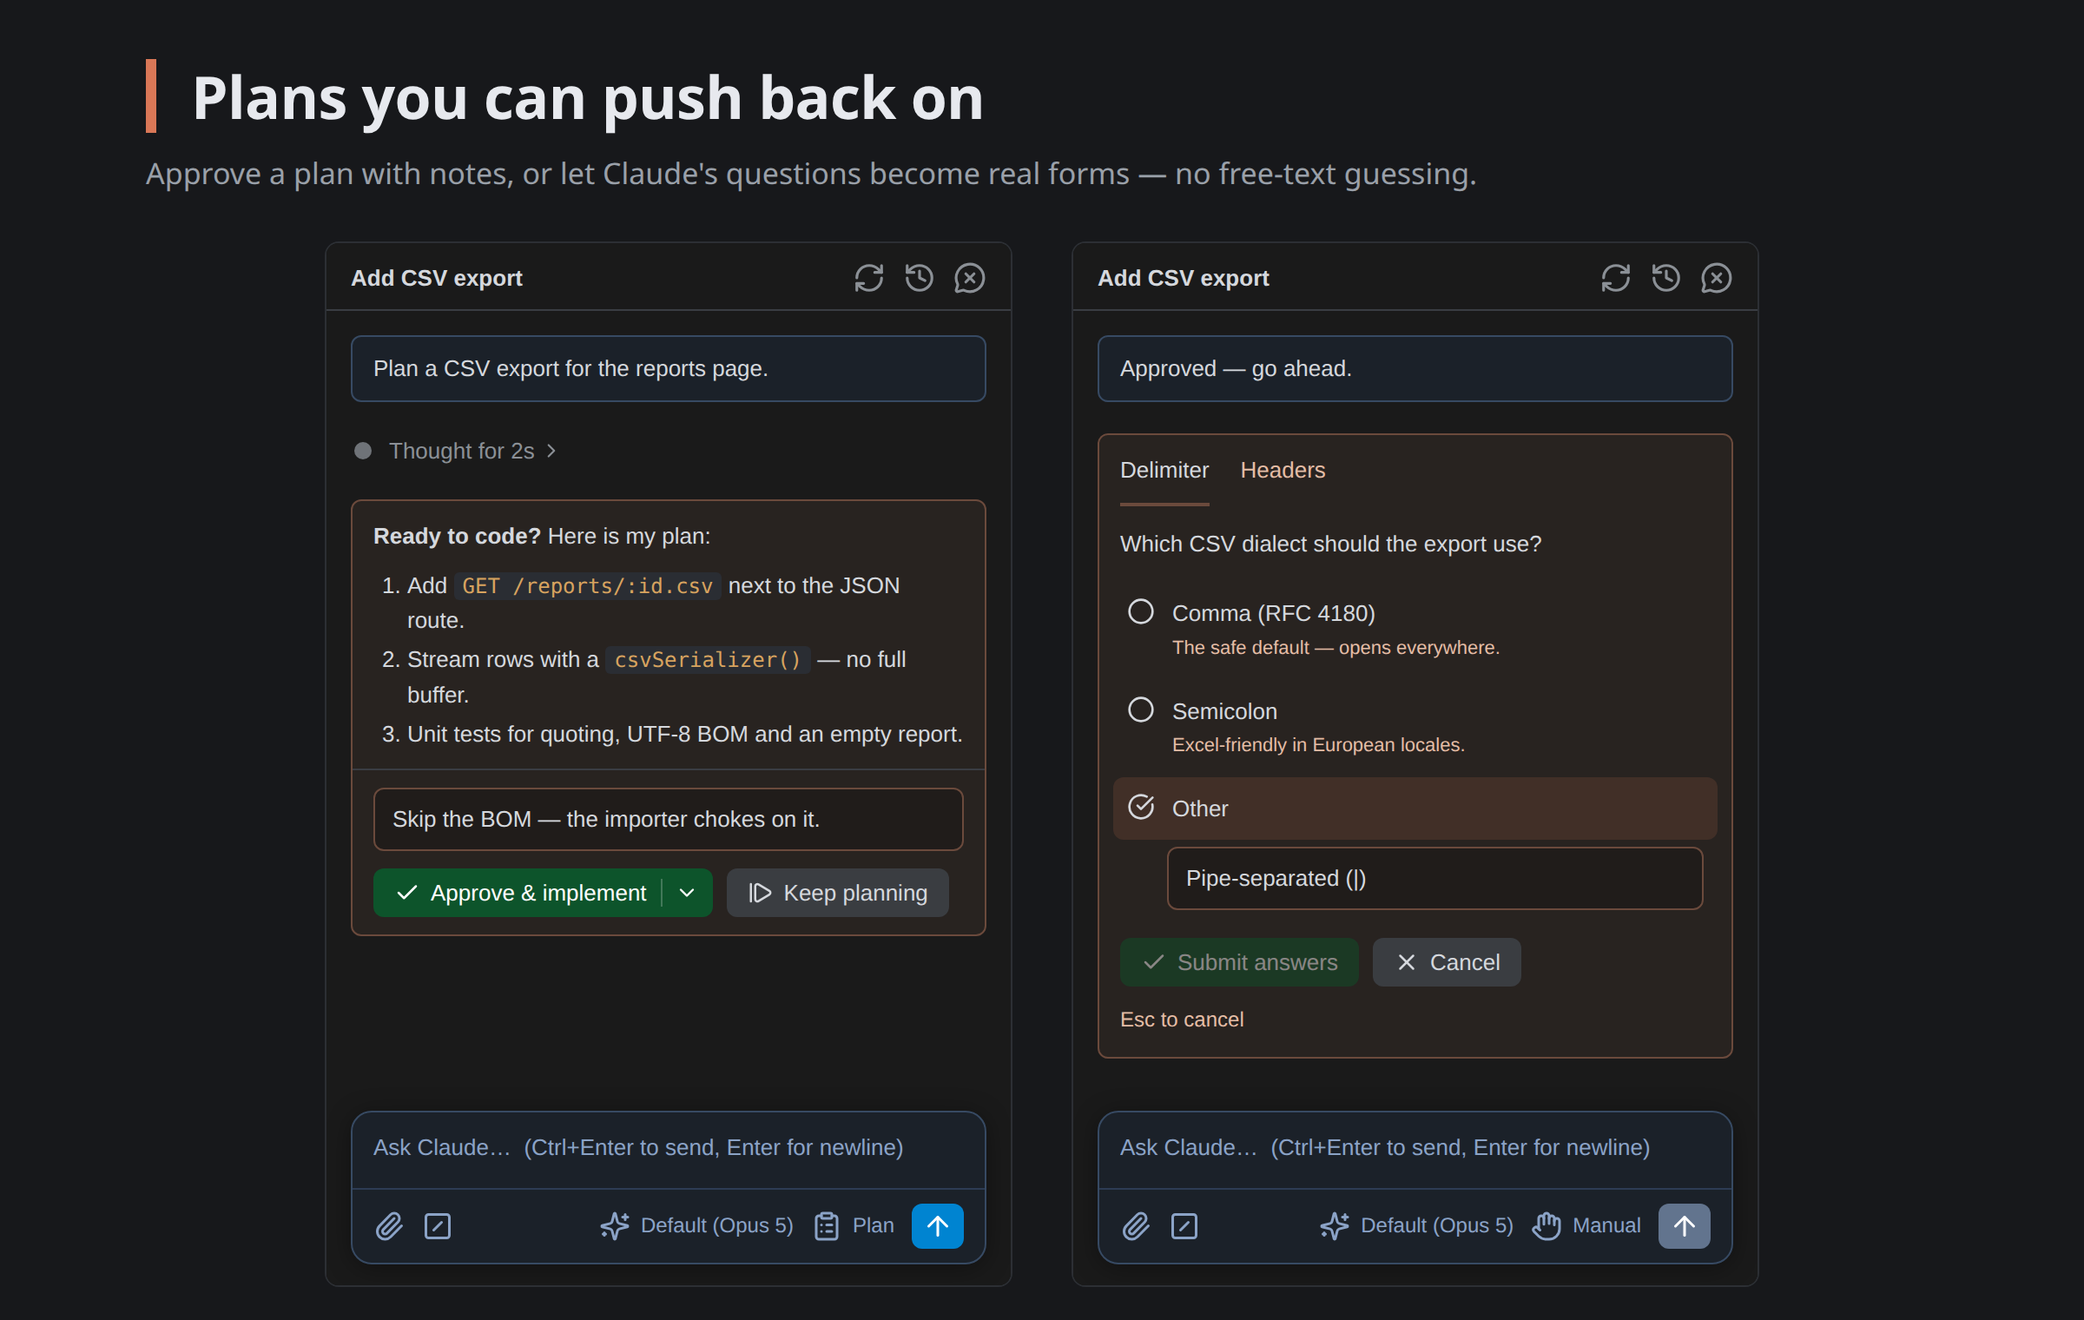
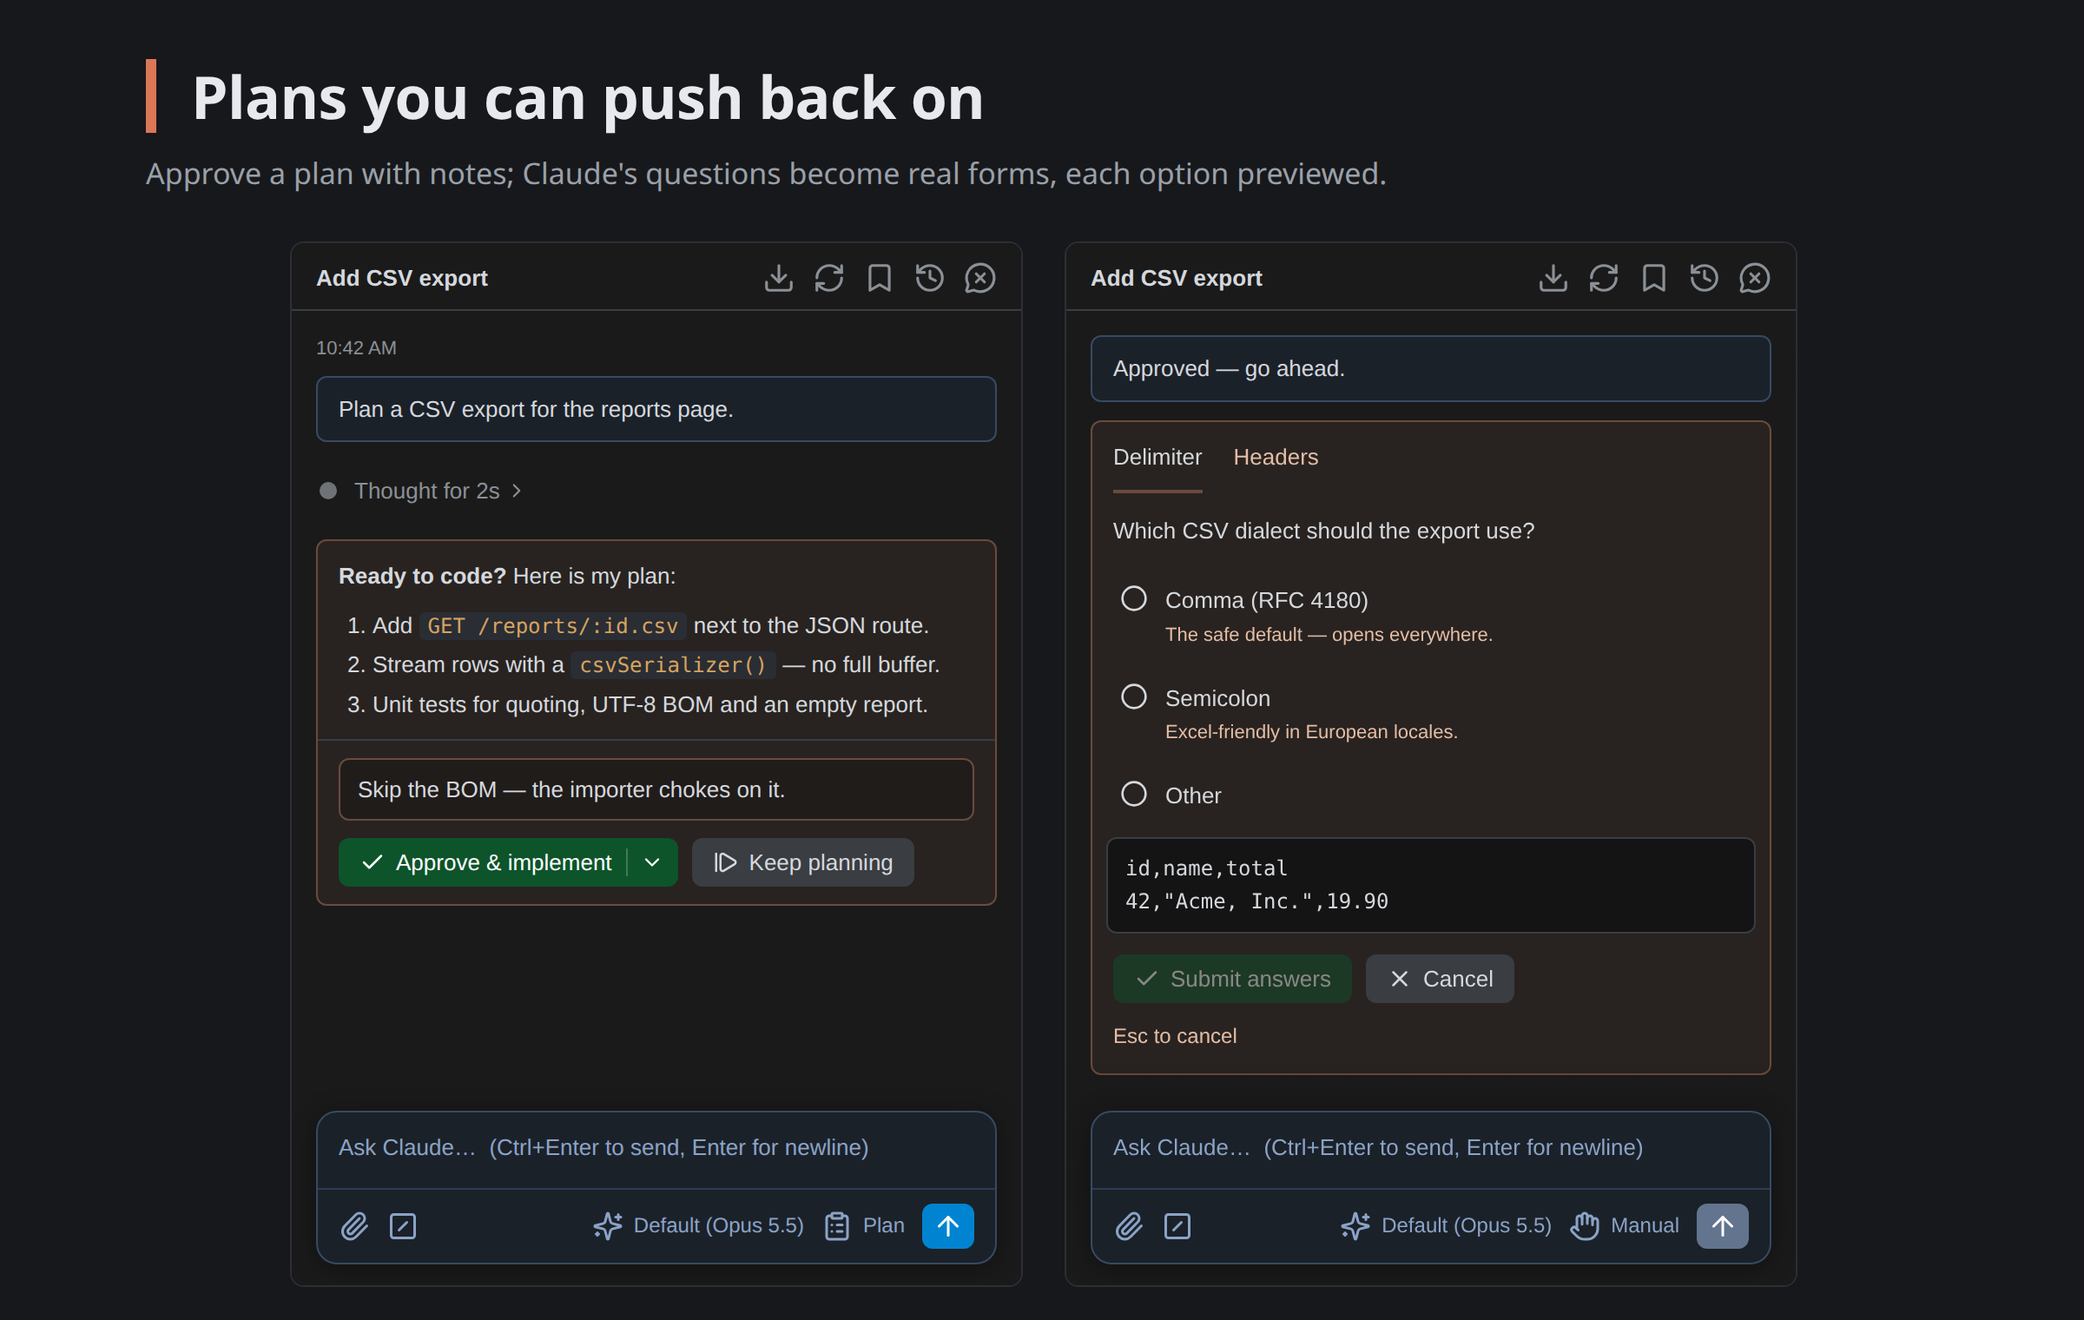
Marketplace screenshots regenerated, three added: the 2.1.293 model roster (Opus 5.5 / Fable 5.1 / Sonnet 5.5 / Haiku 5.5; the retired 1M switch dropped from 05's copy), 10:42 AM prompt stamps with 05's history list on the same clock, context figures for a 200K window, 420px panels (the 'Default (Op

diff --git a/tools/marketplace_shots.py b/tools/marketplace_shots.py
@@ -2,7 +2,8 @@
 """Compose the Marketplace screenshots (design/marketplace/*.png) from the REAL renderer.
 
 Each frame is 1200x760 CSS px at device scale 2 (2400x1520): a headline, a sub-line, and two
-panels side by side. A panel is the spliced chat.html (chat.html + webview/css/*.css +
+420px panels side by side (394 until 2026-10-28, when the 'Default (Opus 5.5)' chip wrapped
+beside the gauge). A panel is the spliced chat.html (chat.html + webview/css/*.css +
 window.LIMITS + webview/js/*.js, both in manifest order — exactly what WebviewAssets/loadUi
 build for the IDE) loaded
 in an iframe and driven by a scene script through the same builders and frames the live panel
@@ -12,7 +13,7 @@ the plugin does not produce.
 Headless Chrome, not JCEF: JCEF-OSR tiles multiple paints into one capture under an emulated
 viewport (gotchas § JCEF). Animations are frozen by injected CSS.
 
-Usage:  python3 tools/marketplace_shots.py [scene-number ...]     (default: all five)
+Usage:  python3 tools/marketplace_shots.py [scene-number ...]     (default: all of them)
 Needs:  google-chrome on PATH.  Writes design/marketplace/NN-*.png and the intermediate pages
         under $SCRATCH (default: /tmp/claude-brains-shots).
 """
@@ -26,7 +27,7 @@ SCRATCH = pathlib.Path(os.environ.get("SCRATCH", "/tmp/claude-brains-shots"))
 CHROME = os.environ.get("CHROME", "google-chrome")
 
 W, H = 1200, 760          # CSS px; captured at scale 2
-PANEL_W, PANEL_H = 394, 600
+PANEL_W, PANEL_H = 420, 600
 
 
 def kotlin_list(name: str) -> list:
@@ -80,12 +81,12 @@ def panel_html() -> str:
 
 COMMON = r"""
 window.onClaudeEvent(JSON.stringify({type:'__project', root:'/home/you/shop'}));
+// the roster as CLI 2.1.293 sends it (fixture 97 rows; Default resolved as fixture 67 measured it)
 window.onClaudeEvent(JSON.stringify({type:'__models', selected:'default', items:[
-  {value:'default', resolvedModel:'claude-opus-5[1m]', displayName:'Default (recommended)', description:'Opus 5 with 1M context · Best for everyday, complex tasks', supportsEffort:true, supportsFastMode:true},
-  {value:'opus[1m]', resolvedModel:'claude-opus-5[1m]', displayName:'Opus (1M context)', description:'Opus 5 with 1M context · Best for everyday, complex tasks', supportsEffort:true, supportsFastMode:true},
-  {value:'claude-fable-5[1m]', resolvedModel:'claude-fable-5', displayName:'Fable', description:'Fable 5 · Most capable for your hardest and longest-running tasks', supportsEffort:true},
-  {value:'sonnet', resolvedModel:'claude-sonnet-5', displayName:'Sonnet', description:'Sonnet 5 · Efficient for routine tasks', supportsEffort:true},
-  {value:'haiku', resolvedModel:'claude-haiku-4-5-20251001', displayName:'Haiku', description:'Haiku 4.5 · Fastest for quick answers'}]}));
+  {value:'default', resolvedModel:'claude-opus-5-5', displayName:'Default (recommended)', description:'Opus 5.5 · Best for everyday, complex tasks', supportsEffort:true, supportsFastMode:true},
+  {value:'fable', resolvedModel:'claude-fable-5-1', displayName:'Fable 5.1', description:'For your toughest challenges', supportsEffort:true},
+  {value:'sonnet', resolvedModel:'claude-sonnet-5-5', displayName:'Sonnet 5.5', description:'Most efficient for simpler tasks', supportsEffort:true},
+  {value:'haiku', resolvedModel:'claude-haiku-5-5', displayName:'Haiku 5.5', description:'Fastest for quick answers'}]}));
 window.onClaudeEvent(JSON.stringify({type:'__mode', mode:'default'}));
 window.onClaudeEvent(JSON.stringify({type:'__commands', items:[
   {name:'compact', description:'Free up context by summarizing the conversation so far', argumentHint:'<optional custom summarization instructions>'},
@@ -97,7 +98,9 @@ window.onClaudeEvent(JSON.stringify({type:'__commands', items:[
   {name:'deploy', description:'Build, tag and push the release image (project)', argumentHint:'<env>'},
   {name:'standup', description:'Summarise what changed since yesterday (user)'},
   {name:'mcp__github__pr', description:'Draft a pull-request description from the branch'}]}));
-function user(t){ addUserMessage(t, []); }
+// every prompt at 10:42 AM today, so the 1.30 timestamp line shows as it does live
+function at(h, m){ const d = new Date(); d.setHours(h, m, 0, 0); return +d; }
+function user(t, sel){ return addUserMessage(t, [], at(10, 42), sel || null); }
 function md(t){ const b = el('blk',''); b.innerHTML = renderMd(t); foldCode(b); return b; }
 function tool(name, desc, isPath){ const t = toolLine(name); const d = t.querySelector('.t-desc'); if (isPath) fillPath(d, desc); else d.textContent = desc; return t; }
 function done(ms, tok){ const d = el('done',''); d.innerHTML = doneHtml(ms, tok, 's1'); return d; }
@@ -117,7 +120,7 @@ done(41000, 1200);
 window.onClaudeEvent(JSON.stringify({type:'__files_changed', turn:1, files:[
   {path:'/home/you/shop/src/api/router.js', added:9, removed:1, isNew:false},
   {path:'/home/you/shop/src/api/limiter.js', added:24, removed:0, isNew:true}]}));
-idle(); setContext(162000);
+idle(); setContext(52000);
 """
 
 S1_RIGHT = COMMON + r"""
@@ -134,7 +137,7 @@ tool('Read', '/home/you/shop/src/api/export.js', true);
   toolsById['tu-agent'] = { el: tg2, name: 'Agent', io: null }; taskProg = {};
   taskLine({task_id:'tk1', tool_use_id:'tu-agent', description:'Scanning src/api', subagent_type:'Explore', usage:{total_tokens:8063, tool_uses:4}}, false); }
 { const tr = track(toolLine('Bash')); tr.classList.add('run'); tr.querySelector('.t-desc').textContent = 'npm test — re-running the suite'; }
-working('Simmering…', '12s', '412'); setContext(181000);
+working('Simmering…', '12s', '412'); setContext(64000);
 """
 
 S2_LEFT = COMMON + r"""
@@ -154,12 +157,10 @@ window.onClaudeEvent(JSON.stringify({type:'__title', text:'Add CSV export'}));
 user('Approved — go ahead.');
 renderPermission({ tool:'AskUserQuestion', id:'ask-1', input: JSON.stringify({ questions: [
   { header:'Delimiter', question:'Which CSV dialect should the export use?', options:[
-    {label:'Comma (RFC 4180)', description:'The safe default — opens everywhere.'},
-    {label:'Semicolon', description:'Excel-friendly in European locales.'}]},
+    {label:'Comma (RFC 4180)', description:'The safe default — opens everywhere.', preview:'id,name,total\n42,"Acme, Inc.",19.90'},
+    {label:'Semicolon', description:'Excel-friendly in European locales.', preview:'id;name;total\n42;Acme, Inc.;19,90'}]},
   { header:'Headers', question:'Include a header row?', options:[{label:'Yes'},{label:'No'}]}]}) });
 idle();
-{ const r = document.querySelector('.ask-opt-other input'); if (r) { r.checked = true; r.dispatchEvent(new Event('change', {bubbles:true})); }
-  const o = document.querySelector('.ask-other input'); if (o) o.value = 'Pipe-separated (|)'; }
 """
 
 S3_LEFT = COMMON + r"""
@@ -190,7 +191,7 @@ user('Approved — go ahead with the plan.');
 window.onClaudeEvent(JSON.stringify({type:'__files_changed', turn:1, files:[
   {path:'/home/you/shop/src/api/reports.js', added:1, removed:0, isNew:false},
   {path:'/home/you/shop/src/api/csv.js', added:38, removed:0, isNew:true}]}));
-working('Wiring…', '9s', '304'); setContext(210000);
+working('Wiring…', '9s', '304'); setContext(78000);
 """
 
 S4_LEFT = COMMON + r"""
@@ -225,18 +226,18 @@ done(41000, 1200);
 idle();
 const now = Date.now();
 window.onClaudeEvent(JSON.stringify({type:'sessions', current:'s-cur', items:[
-  {id:'s-cur', title:'Rate limiting for the API', time: now - 5*60000, size: 48000, tokens: 12400},
-  {id:'s-2', title:'Add CSV export', time: now - 3*3600000, size: 121000, tokens: 38200},
-  {id:'s-3', title:'Fix the flaky checkout test', time: now - 26*3600000, size: 23000, tokens: 6100},
-  {id:'s-4', title:'Migrate the cart to TypeScript', time: now - 3*86400000, size: 402000, tokens: 96000},
-  {id:'s-5', title:'Why does the build take 4 minutes?', time: now - 9*86400000, size: 15000, tokens: 4200}]}));
+  {id:'s-cur', title:'Rate limiting for the API', time: at(10, 47), size: 48000, tokens: 12400},
+  {id:'s-2', title:'Add CSV export', time: at(10, 47) - 19*3600000, size: 121000, tokens: 38200},
+  {id:'s-3', title:'Fix the flaky checkout test', time: at(10, 47) - 44*3600000, size: 23000, tokens: 6100},
+  {id:'s-4', title:'Migrate the cart to TypeScript', time: at(10, 47) - 3*86400000, size: 402000, tokens: 96000},
+  {id:'s-5', title:'Why does the build take 4 minutes?', time: at(10, 47) - 9*86400000, size: 15000, tokens: 4200}]}));
 histWanted = true;
 window.onClaudeEvent(JSON.stringify({type:'sessions', current:'s-cur', items:[
-  {id:'s-cur', title:'Rate limiting for the API', time: now - 5*60000, size: 48000, tokens: 12400},
-  {id:'s-2', title:'Add CSV export', time: now - 3*3600000, size: 121000, tokens: 38200},
-  {id:'s-3', title:'Fix the flaky checkout test', time: now - 26*3600000, size: 23000, tokens: 6100},
-  {id:'s-4', title:'Migrate the cart to TypeScript', time: now - 3*86400000, size: 402000, tokens: 96000},
-  {id:'s-5', title:'Why does the build take 4 minutes?', time: now - 9*86400000, size: 15000, tokens: 4200}]}));
+  {id:'s-cur', title:'Rate limiting for the API', time: at(10, 47), size: 48000, tokens: 12400},
+  {id:'s-2', title:'Add CSV export', time: at(10, 47) - 19*3600000, size: 121000, tokens: 38200},
+  {id:'s-3', title:'Fix the flaky checkout test', time: at(10, 47) - 44*3600000, size: 23000, tokens: 6100},
+  {id:'s-4', title:'Migrate the cart to TypeScript', time: at(10, 47) - 3*86400000, size: 402000, tokens: 96000},
+  {id:'s-5', title:'Why does the build take 4 minutes?', time: at(10, 47) - 9*86400000, size: 15000, tokens: 4200}]}));
 """
 
 S5_RIGHT = COMMON + r"""
@@ -245,8 +246,84 @@ user('Rate-limit /api/search to 60 requests per minute.');
 md('Done — the limiter is in and the tests pass.');
 done(41000, 1200);
 idle(); clampPopups();
-models = models.filter(function (m) { return m.value !== 'opus[1m]'; });   // fit the capture height
 tg('modelMenu');
+"""
+
+S6_LEFT = COMMON + r"""
+window.onClaudeEvent(JSON.stringify({type:'__title', text:'Release 2.4'}));
+user('How do we roll back a bad deploy?');
+function reply(uuid, text){ const b = el('blk',''); mdBlock(b, text); b.dataset.uuid = uuid; return b; }
+reply('r1', 'Roll back in two steps:\n\n1. `kubectl rollout undo deploy/shop`\n2. Re-run the smoke tests against the old image.');
+done(14000, 380);
+idle();
+bmSet([
+  {uuid:'r1', addedAt: Date.now() - 2*60000, text:'Roll back in two steps:\n\n1. `kubectl rollout undo deploy/shop`\n2. Re-run the smoke tests against the old image.'},
+  {uuid:'r0', addedAt: Date.now() - 3*3600000, text:'Staging secrets live in the vault under `shop/staging`.'}]);
+bmSel = 'r1'; bmRender(); bmOpen();
+"""
+
+S6_RIGHT = COMMON + r"""
+window.onClaudeEvent(JSON.stringify({type:'__title', text:'Release 2.4'}));
+{ const st = document.createElement('style'); st.textContent = '.msg-user .msg-save{opacity:1!important;color:var(--fg)!important}'; document.head.appendChild(st); }
+user('Lint, run the full suite and check the diff is clean before I tag a release.');
+md('Lint is clean, **214 tests** pass and the diff has no stray debug output.');
+done(26000, 540);
+idle();
+onCmdSaved({name:'pre-tag', scope:'user', description:'Lint, test and diff-check before tagging'});
+cmdRecent = {'pre-tag': Date.now(), 'code-review': Date.now() - 3600000};
+input.value = '/';
+tg('slashMenu');
+"""
+
+S7_LEFT = COMMON + r"""
+window.onClaudeEvent(JSON.stringify({type:'__title', text:'Cart totals'}));
+user('Why does @src/cart/total.ts round twice? Compare with @src/cart/tax.ts.',
+  {path:'/home/you/shop/src/cart/total.ts', start:12, end:18});
+md('`subtotal()` rounds each line **and** `total()` rounds the sum — two roundings drift by a cent on large carts. Round once, at the end.');
+done(18000, 460);
+idle();
+setSelIncluded(true, false);
+setIdeSelection({path:'/home/you/shop/src/cart/total.ts', start:24, end:31, text:'export function total(lines) {'});
+input.value = 'Fix it in this function.'; autoGrow();
+"""
+
+S7_RIGHT = COMMON + r"""
+window.onClaudeEvent(JSON.stringify({type:'__title', text:'Cart totals'}));
+addUserMessage('Which tests cover the cart?', [], at(17, 5) - 86400000, null);
+md('`cart.spec.ts` and `checkout.e2e.ts` — 38 cases between them.');
+user('Add one for a 200-line cart.');
+const last = md('Added **cart-large.spec.ts**: 200 lines at 0.333 each must total 66.60.');
+done(9000, 210);
+idle(); placeDaySeps(); copyable(last); last.classList.add('shot-copy');
+{ const st = document.createElement('style'); st.textContent = '.shot-copy .blk-copy{opacity:1!important;color:var(--fg)!important}'; document.head.appendChild(st); }
+"""
+
+S8_LEFT = COMMON + r"""
+window.onClaudeEvent(JSON.stringify({type:'__title', text:'Release 2.4'}));
+user('Start the dev server and the build watcher, then keep going.');
+tool('Bash', 'Start the dev server');
+tool('Bash', 'Watch the build');
+md('Both are running in the background — I will keep an eye on the build output.');
+done(12000, 300);
+idle();
+window.onClaudeEvent(JSON.stringify({type:'system', subtype:'background_tasks_changed', tasks:[
+  {task_id:'bg_a', task_type:'local_bash', description:'npm run dev'},
+  {task_id:'bg_b', task_type:'local_bash', description:'npm run build -- --watch'}]}));
+bgOut = { bg_b: { open: true, got: true, truncated: false, total: 0, err: null, pinned: true, askedAt: Date.now() + 1e9,
+  text: '> vite build --watch\n\nvite v5.4.2 building for production...\n✓ 412 modules transformed.\ndist/index.html   0.46 kB\ndist/assets/app.js  148.2 kB\n✓ built in 2.31s\nwatching for file changes...' } };
+renderBgTasks();
+tg('bgMenu');
+"""
+
+S8_RIGHT = COMMON + r"""
+window.onClaudeEvent(JSON.stringify({type:'__title', text:'Release 2.4'}));
+user('Run the full e2e suite.');
+{ const tb = track(toolLine('Bash')); tb.classList.add('run');
+  tb.querySelector('.t-desc').textContent = 'Run the e2e suite';
+  toolsById['tu-e2e'] = { el: tb, name: 'Bash', io: null };
+  tb.after(ioBox([['IN', 'npx playwright test --project=chromium']]));
+  offerBackground({ task_id: 'tk-e2e', tool_use_id: 'tu-e2e', is_backgrounded: false }); }
+working('Testing…', '1m 12s', '96');
 """
 
 SCENES = [
@@ -254,7 +331,7 @@ SCENES = [
      "The official claude CLI streaming into a JetBrains tool window — thinking, tools, todos, sub-agents, live progress.",
      [S1_LEFT, S1_RIGHT]),
     ("02-plan-and-questions", "Plans you can push back on",
-     "Approve a plan with notes, or let Claude's questions become real forms — no free-text guessing.",
+     "Approve a plan with notes; Claude's questions become real forms, each option previewed.",
      [S2_LEFT, S2_RIGHT]),
     ("03-control", "You stay in control",
      "Inline diffs, one-click always-allow, and a per-turn review of every file that changed.",
@@ -263,8 +340,17 @@ SCENES = [
      "Verified slash commands with source badges, a roster of what runs in the background, and /btw for a quick aside.",
      [S4_LEFT, S4_RIGHT]),
     ("05-sessions-models", "Every conversation, every model",
-     "Resume any past conversation; pick the model, 1M context, fast mode, thinking and effort from one menu.",
+     "Resume any past conversation; pick the model, fast mode, thinking and effort from one menu.",
      [S5_LEFT, S5_RIGHT]),
+    ("06-keep-at-hand", "Keep what you reach for",
+     "Bookmark the replies you come back to; save a prompt you send every day as a /command — recent ones first.",
+     [S6_LEFT, S6_RIGHT]),
+    ("07-context-in-out", "Your editor rides along",
+     "The selection and @-files go with each prompt; every message is timed and dated; copy any reply.",
+     [S7_LEFT, S7_RIGHT]),
+    ("08-background", "Long jobs, out of the way",
+     "Watch a background task's output live, or send a slow command to the background mid-run.",
+     [S8_LEFT, S8_RIGHT]),
 ]
 
 
@@ -277,7 +363,7 @@ p{{position:absolute;left:84px;top:88px;margin:0;font-size:17px;color:#9aa0a9}}
 .panel{{position:absolute;top:139px;width:{PW}px;height:{PH}px;border:1px solid #2c2f34;border-radius:8px;
   overflow:hidden;background:#1a1a1a}}
 .panel iframe{{border:0;width:{PW}px;height:{PH}px;display:block}}
-#l{{left:187px}} #r{{left:617px}}
+#l{{left:167px}} #r{{left:613px}}
 </style></head><body>
 <h1>{title}</h1><p>{sub}</p>
 <div class="panel" id="l"><iframe src="panel.html"></iframe></div>

diff --git a/docs/release.md b/docs/release.md
@@ -206,7 +206,9 @@ hard way:
   `python3 tools/marketplace_shots.py` (headless Chrome over the spliced chat.html; scenes are
   scripts against the real builders — edit them there, never retouch a PNG). Reshot 2026-08-29:
   01 conversation · 02 plan + questions · 03 control · 04 commands/agents/side question · 05
-  sessions + models. Uploading them is a MANUAL step on the Marketplace edit page — the zip carries
+  sessions + models. Reshot 2026-10-28 on the 2.1.293 roster (10:42 AM stamps, 420px panels) and
+  three added: 06 bookmarks + saved commands · 07 selection pill, @-files, date lines, copy · 08
+  background output pane + Run in background. Uploading them is a MANUAL step on the Marketplace edit page — the zip carries
   no screenshots. Originally composed from the real
   renderer by driving chat.html state-by-state.
 - Uploads are automatic since 2026-08-12 (step 10): the `marketplace-upload` workflow re-posts the
